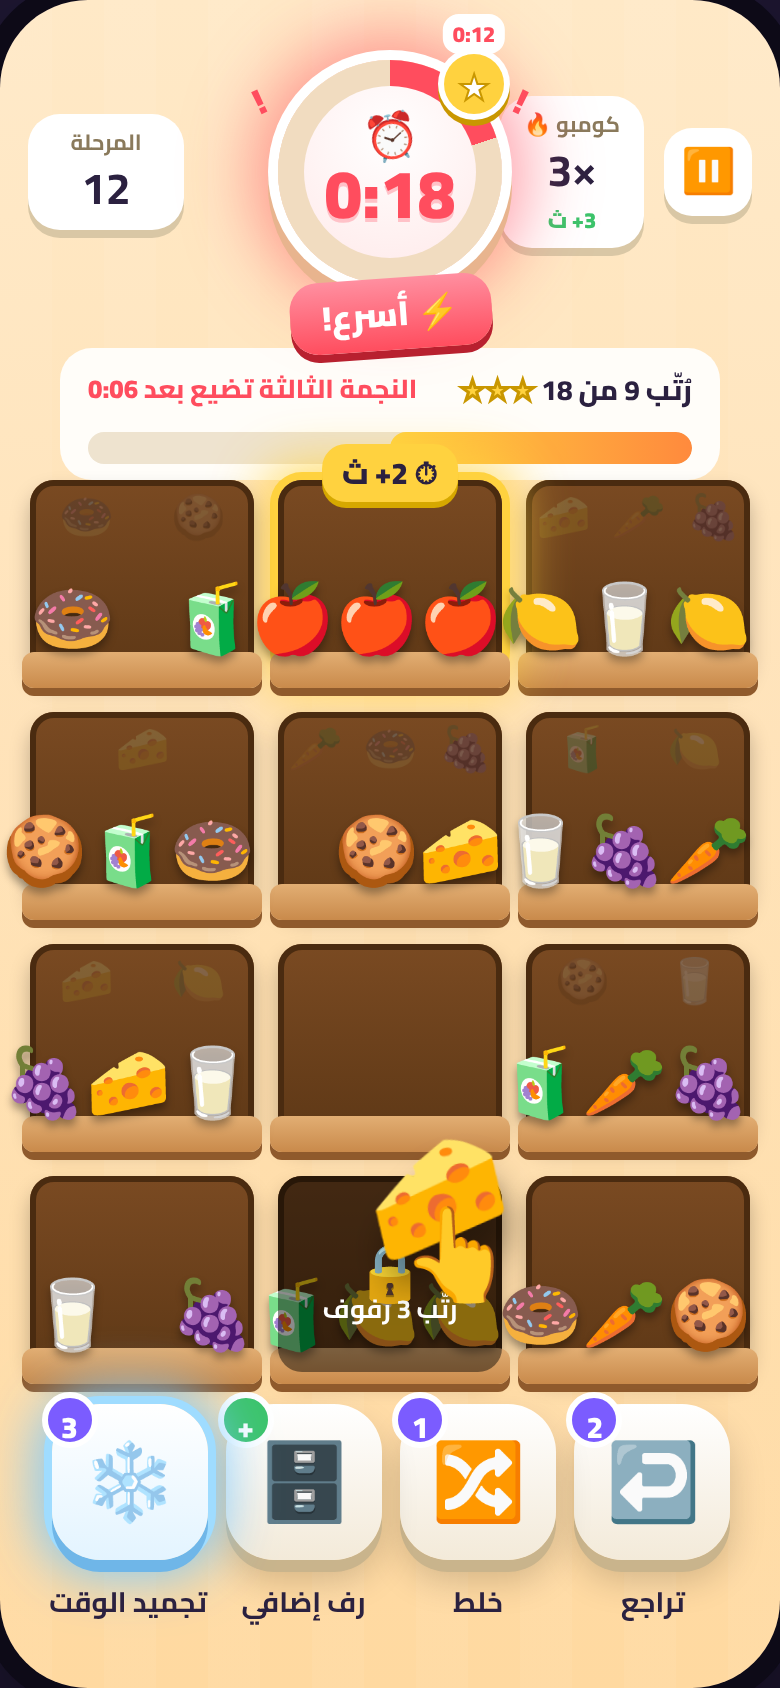
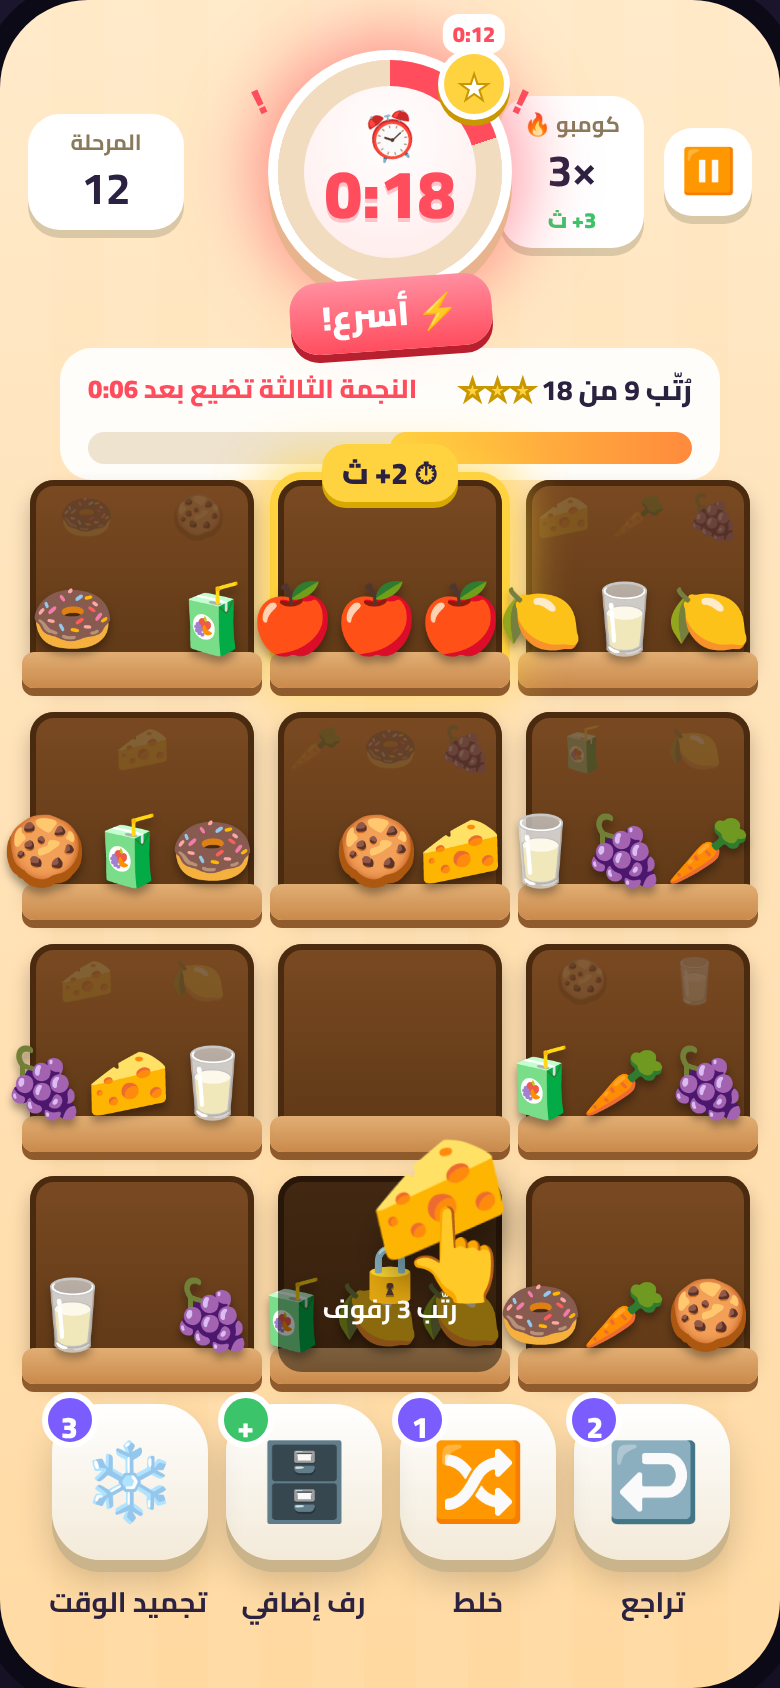
Mockups: remove glow from freeze booster
Claude-Session: https://claude.ai/code/session_0198GSpUHpAsMi38EfXjb44N

Changed region(s): [[0.0, 0.8009, 0.3385, 0.955]]

diff --git a/design/mockups/shelf-sort-mockups.html b/design/mockups/shelf-sort-mockups.html
@@ -451,7 +451,7 @@ body { font-family: "Cairo", sans-serif; background: #1d1630; color: var(--ink);
     <div class="booster"><div class="ic"><i class="emoji">↩</i></div><span class="cnt">2</span><b>تراجع</b></div>
     <div class="booster"><div class="ic"><i class="emoji">🔀</i></div><span class="cnt">1</span><b>خلط</b></div>
     <div class="booster"><div class="ic"><i class="emoji">🗄</i></div><span class="cnt add">+</span><b>رف إضافي</b></div>
-    <div class="booster suggest"><div class="ic"><i class="emoji">❄</i></div><span class="cnt">3</span><b>تجميد الوقت</b></div>
+    <div class="booster"><div class="ic"><i class="emoji">❄</i></div><span class="cnt">3</span><b>تجميد الوقت</b></div>
   </div>
 </div>
 <figcaption>4. اللعب<span>اسحب البضائع واجمع 3 متشابهة على رف</span></figcaption>
